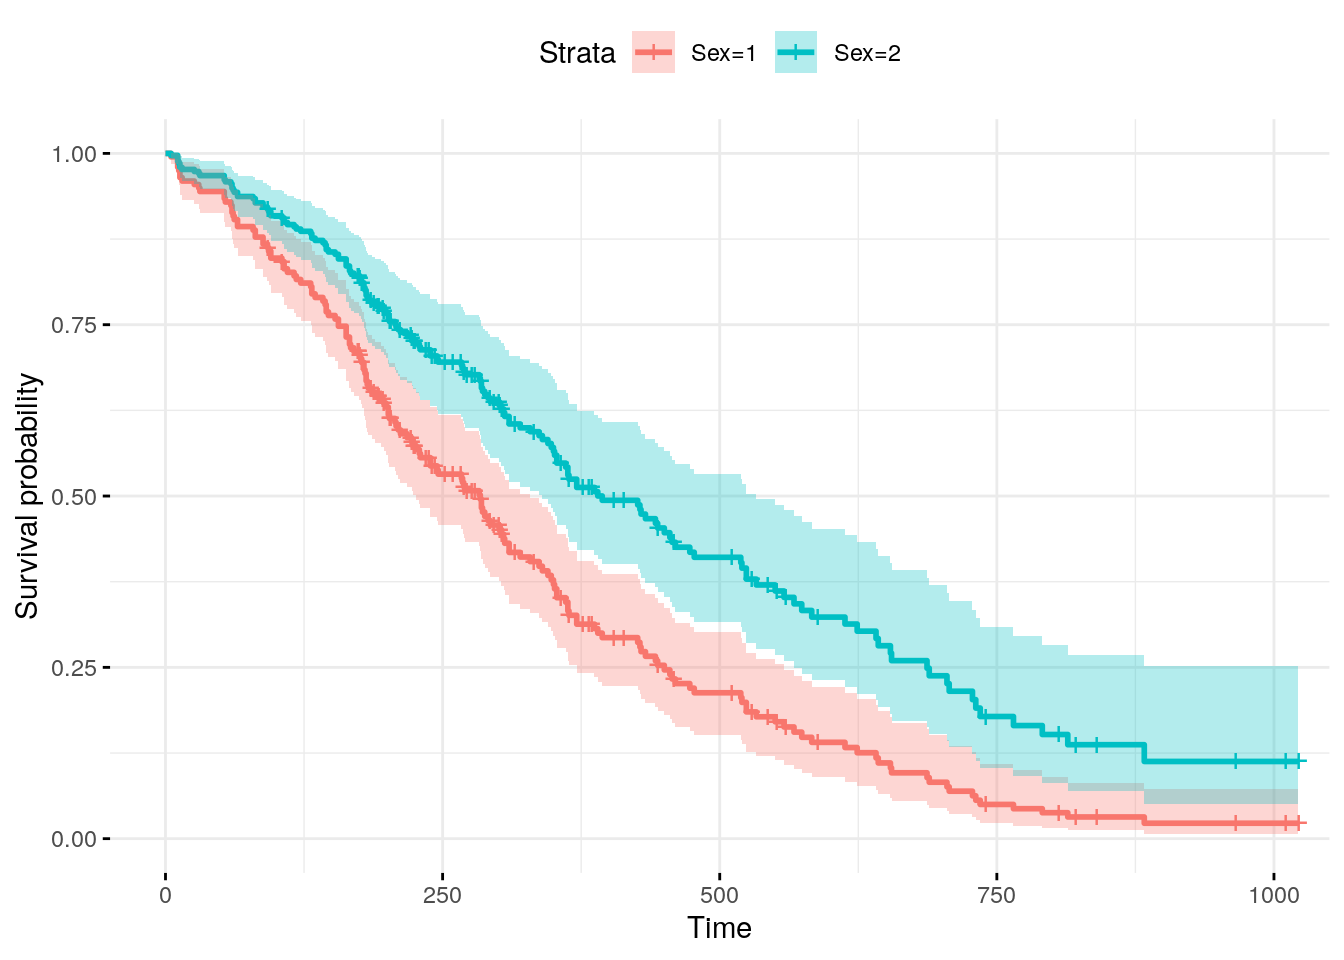
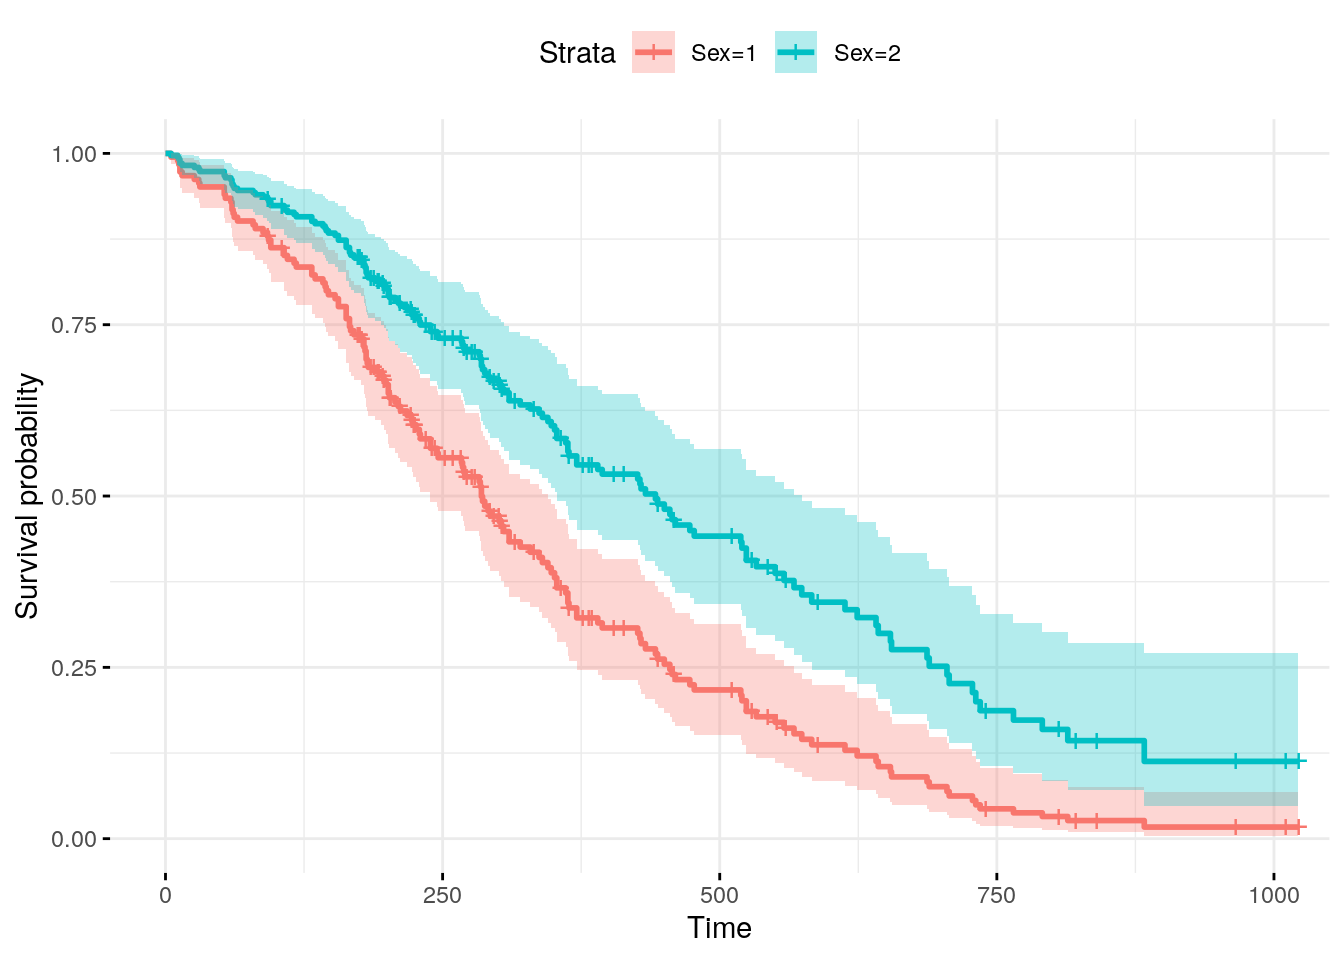
Build site.

diff --git a/docs/survival.html b/docs/survival.html
@@ -520,15 +520,15 @@ project makes it easier to run your code on other machines.</p>
 <div class="panel panel-default">
 <div class="panel-heading">
 <p class="panel-title">
-<a data-toggle="collapse" data-parent="#workflowr-checks" href="#strongRepositoryversionstrongahrefhttpsgithubcomdavetangmusetree37e1a562e56fa058a90c2ce91cd9383ca425dfb6targetblank37e1a56a">
+<a data-toggle="collapse" data-parent="#workflowr-checks" href="#strongRepositoryversionstrongahrefhttpsgithubcomdavetangmusetreeb4509a9d4759595b31410c63598282ad1ac59667targetblankb4509a9a">
 <span class="glyphicon glyphicon-ok text-success"
 aria-hidden="true"></span> <strong>Repository version:</strong>
-<a href="https://github.com/davetang/muse/tree/37e1a562e56fa058a90c2ce91cd9383ca425dfb6" target="_blank">37e1a56</a>
+<a href="https://github.com/davetang/muse/tree/b4509a9d4759595b31410c63598282ad1ac59667" target="_blank">b4509a9</a>
 </a>
 </p>
 </div>
 <div
[2 lines of base64/hex data omitted]
 class="panel-collapse collapse">
 <div class="panel-body">
 <p>
@@ -538,7 +538,7 @@ reproducibility.
 </p>
 <p>
 The results in this page were generated with repository version
-<a href="https://github.com/davetang/muse/tree/37e1a562e56fa058a90c2ce91cd9383ca425dfb6" target="_blank">37e1a56</a>.
+<a href="https://github.com/davetang/muse/tree/b4509a9d4759595b31410c63598282ad1ac59667" target="_blank">b4509a9</a>.
 See the <em>Past versions</em> tab to see a history of the changes made
 to the R Markdown and HTML files.
 </p>
@@ -555,6 +555,7 @@ were generated:
 Ignored files:
     Ignored:    .Rhistory
     Ignored:    .Rproj.user/
+    Ignored:    analysis/figure/
     Ignored:    r_packages_4.3.2/
 
 Untracked files:
@@ -618,6 +619,40 @@ Message
 </tr>
 </thead>
 <tbody>
+<tr>
+<td>
+Rmd
+</td>
+<td>
+<a href="https://github.com/davetang/muse/blob/b4509a9d4759595b31410c63598282ad1ac59667/analysis/survival.Rmd" target="_blank">b4509a9</a>
+</td>
+<td>
+Dave Tang
+</td>
+<td>
+2023-11-09
+</td>
+<td>
+Include additional covariates
+</td>
+</tr>
+<tr>
+<td>
+html
+</td>
+<td>
+<a href="https://rawcdn.githack.com/davetang/muse/797564fcf92f753e704d97c71c38bed15b07a0ed/docs/survival.html" target="_blank">797564f</a>
+</td>
+<td>
+Dave Tang
+</td>
+<td>
+2023-11-09
+</td>
+<td>
+Build site.
+</td>
+</tr>
 <tr>
 <td>
 Rmd
@@ -1405,12 +1440,12 @@ Score (logrank) test = 10.33  on 1 df,   p=0.001</code></pre>
 <ol style="list-style-type: decimal">
 <li><p><strong>Statistical significance</strong>. The column marked
 <code>z</code> gives the Wald statistic value. It corresponds to the
-ratio of each regression coefficient to its standard error (<span
-class="math inline">\(z = coef/se(coef)\)</span>). The Wald statistic
-evaluates, whether the beta (<span class="math inline">\(\beta\)</span>)
-coefficient of a given variable is statistically significantly different
-from 0. From the output above, we can conclude that the variable sex
-have highly statistically significant coefficients.</p></li>
+ratio of each regression coefficient to its standard error (z =
+coef/se(coef)). The Wald statistic evaluates, whether the beta (<span
+class="math inline">\(\beta\)</span>) coefficient of a given variable is
+statistically significantly different from 0. From the output above, we
+can conclude that the variable sex have highly statistically significant
+coefficients.</p></li>
 <li><p><strong>The regression coefficients</strong>. The second feature
 to note in the Cox model results is the the sign of the regression
 coefficients (<code>coef</code>). A positive sign means that the hazard
@@ -1440,7 +1475,7 @@ test has better behavior for small sample sizes, so it is generally
 preferred.</p></li>
 </ol>
 <p>Perform the univariate Cox analysis on other covariates.</p>
-<pre class="r"><code>covariates &lt;- c(&quot;age&quot;, &quot;sex&quot;,  &quot;ph.karno&quot;, &quot;ph.ecog&quot;, &quot;wt.loss&quot;)
+<pre class="r"><code>covariates &lt;- c(&quot;age&quot;, &quot;sex&quot;,  &quot;ph.karno&quot;, &quot;pat.karno&quot;, &quot;ph.ecog&quot;, &quot;wt.loss&quot;)
 univ_formulas &lt;- sapply(
   covariates,
   function(x) as.formula(paste(&#39;Surv(time, status)~&#39;, x))
@@ -1471,52 +1506,62 @@ univ_results &lt;- lapply(
 )
 res &lt;- t(as.data.frame(univ_results, check.names = FALSE))
 as.data.frame(res)</code></pre>
-<pre><code>           beta HR (95% CI for HR) wald.test p.value
-age       0.019            1 (1-1)       4.1   0.042
-sex       -0.53   0.59 (0.42-0.82)        10  0.0015
-ph.karno -0.016      0.98 (0.97-1)       7.9   0.005
-ph.ecog    0.48        1.6 (1.3-2)        18 2.7e-05
-wt.loss  0.0013         1 (0.99-1)      0.05    0.83</code></pre>
-<p>The variables <code>age</code>, <code>sex</code>, and
-<code>ph.ecog</code> have highly statistically significant coefficients.
-<code>age</code> and <code>ph.ecog</code> have positive beta
-coefficients, while sex has a negative coefficient. Thus, older age and
-higher <code>ph.ecog</code> are associated with poorer survival, whereas
-being female (sex=2) is associated with better survival.</p>
+<pre><code>            beta HR (95% CI for HR) wald.test p.value
+age        0.019            1 (1-1)       4.1   0.042
+sex        -0.53   0.59 (0.42-0.82)        10  0.0015
+ph.karno  -0.016      0.98 (0.97-1)       7.9   0.005
+pat.karno  -0.02   0.98 (0.97-0.99)        13 0.00028
+ph.ecog     0.48        1.6 (1.3-2)        18 2.7e-05
+wt.loss   0.0013         1 (0.99-1)      0.05    0.83</code></pre>
+<p>The variables <code>age</code>, <code>sex</code>,
+<code>ph.karno</code>, <code>pat.karno</code>, and <code>ph.ecog</code>
+have statistically significant coefficients. <code>age</code> and
+<code>ph.ecog</code> have positive beta coefficients, while sex has a
+negative coefficient. Thus, older age and higher <code>ph.ecog</code>
+are associated with poorer survival, whereas being female (sex=2) is
+associated with better survival.</p>
 <p>To perform a multivariate Cox regression analysis, include the
 additional covariates in the formula.</p>
-<pre class="r"><code>res_cox &lt;- coxph(Surv(time, status) ~ age + sex + ph.ecog, data =  lung)
+<pre class="r"><code>res_cox &lt;- coxph(Surv(time, status) ~ age + sex + ph.karno + pat.karno + ph.ecog + wt.loss, data =  lung)
 summary(res_cox)</code></pre>
 <pre><code>Call:
-coxph(formula = Surv(time, status) ~ age + sex + ph.ecog, data = lung)
+coxph(formula = Surv(time, status) ~ age + sex + ph.karno + pat.karno + 
+    ph.ecog + wt.loss, data = lung)
 
-  n= 227, number of events= 164 
-   (1 observation deleted due to missingness)
+  n= 210, number of events= 148 
+   (18 observations deleted due to missingness)
 
-             coef exp(coef)  se(coef)      z Pr(&gt;|z|)    
-age      0.011067  1.011128  0.009267  1.194 0.232416    
-sex     -0.552612  0.575445  0.167739 -3.294 0.000986 ***
-ph.ecog  0.463728  1.589991  0.113577  4.083 4.45e-05 ***
+               coef exp(coef)  se(coef)      z Pr(&gt;|z|)    
+age        0.013058  1.013144  0.009866  1.324 0.185639    
+sex       -0.625167  0.535172  0.178703 -3.498 0.000468 ***
+ph.karno   0.020116  1.020320  0.010178  1.976 0.048111 *  
+pat.karno -0.014743  0.985365  0.007300 -2.019 0.043440 *  
+ph.ecog    0.675227  1.964479  0.198735  3.398 0.000680 ***
+wt.loss   -0.013243  0.986844  0.007009 -1.889 0.058836 .  
 ---
 Signif. codes:  0 &#39;***&#39; 0.001 &#39;**&#39; 0.01 &#39;*&#39; 0.05 &#39;.&#39; 0.1 &#39; &#39; 1
 
-        exp(coef) exp(-coef) lower .95 upper .95
-age        1.0111     0.9890    0.9929    1.0297
-sex        0.5754     1.7378    0.4142    0.7994
-ph.ecog    1.5900     0.6289    1.2727    1.9864
+          exp(coef) exp(-coef) lower .95 upper .95
+age          1.0131     0.9870    0.9937    1.0329
+sex          0.5352     1.8686    0.3770    0.7596
+ph.karno     1.0203     0.9801    1.0002    1.0409
+pat.karno    0.9854     1.0149    0.9714    0.9996
+ph.ecog      1.9645     0.5090    1.3307    2.9001
+wt.loss      0.9868     1.0133    0.9734    1.0005
 
-Concordance= 0.637  (se = 0.025 )
-Likelihood ratio test= 30.5  on 3 df,   p=1e-06
-Wald test            = 29.93  on 3 df,   p=1e-06
-Score (logrank) test = 30.5  on 3 df,   p=1e-06</code></pre>
+Concordance= 0.656  (se = 0.025 )
+Likelihood ratio test= 37.2  on 6 df,   p=2e-06
+Wald test            = 36.49  on 6 df,   p=2e-06
+Score (logrank) test = 37.59  on 6 df,   p=1e-06</code></pre>
 <p>The p-value for all three overall tests (likelihood, Wald, and score)
 are significant, indicating that the model is significant. These tests
 evaluate the omnibus null hypothesis that all of the betas are 0. In the
 above example, the test statistics are in close agreement, and the
 omnibus null hypothesis is soundly rejected.</p>
-<p>In the multivariate Cox analysis, the covariates <code>sex</code> and
-<code>ph.ecog</code> remain significant (p &lt; 0.05) and the covariate
-<code>age</code> is not significant.</p>
+<p>In the multivariate Cox analysis, the covariates <code>sex</code>,
+<code>ph.karno</code>, <code>pat.karno</code>, and <code>ph.ecog</code>
+remain significant (p &lt; 0.05) and the covariate <code>age</code> is
+no longer significant.</p>
 <p>The p-value for <code>sex</code> is 0.000986, with a hazard ratio HR
 = exp(coef) = 0.58, indicating a strong relationship between the
 patients’ sex and decreased risk of death. The hazard ratios of
@@ -1552,6 +1597,43 @@ covariates.</p>
 <pre><code>Warning: Now, to change color palette, use the argument palette= &#39;#2E9FDF&#39;
 instead of color = &#39;#2E9FDF&#39;</code></pre>
 <p><img src="figure/survival.Rmd/plot_baseline_survival-1.png" width="480" style="display: block; margin: auto;" /></p>
+<p>
+<button type="button" class="btn btn-default btn-xs btn-workflowr btn-workflowr-fig" data-toggle="collapse" data-target="#fig-plot_baseline_survival-1">
+Past versions of plot_baseline_survival-1.png
+</button>
+</p>
+<div id="fig-plot_baseline_survival-1" class="collapse">
+<div class="table-responsive">
+<table class="table table-condensed table-hover">
+<thead>
+<tr>
+<th>
+Version
+</th>
+<th>
+Author
+</th>
+<th>
+Date
+</th>
+</tr>
+</thead>
+<tbody>
+<tr>
+<td>
+<a href="https://github.com/davetang/muse/blob/797564fcf92f753e704d97c71c38bed15b07a0ed/docs/figure/survival.Rmd/plot_baseline_survival-1.png" target="_blank">797564f</a>
+</td>
+<td>
+Dave Tang
+</td>
+<td>
+2023-11-09
+</td>
+</tr>
+</tbody>
+</table>
+</div>
+</div>
 <p>Consider that, we want to assess the impact of the sex on the
 estimated survival probability. In this case, we construct a new data
 frame with two rows, one for each value of sex; the other covariates are
@@ -1564,13 +1646,16 @@ This data frame is passed to survfit() via the newdata argument.</p>
   data.frame(
     sex = c(1, 2), 
     age = rep(mean(age, na.rm = TRUE), 2),
-    ph.ecog = c(1, 1)
+    ph.ecog = c(1, 1),
+    ph.karno = rep(mean(ph.karno, na.rm=TRUE), 2),
+    pat.karno = rep(mean(pat.karno, na.rm=TRUE), 2),
+    wt.loss = rep(mean(wt.loss, na.rm=TRUE), 2)
   )
 )
 sex_df</code></pre>
-<pre><code>  sex      age ph.ecog
-1   1 62.44737       1
-2   2 62.44737       1</code></pre>
+<pre><code>  sex      age ph.ecog ph.karno pat.karno  wt.loss
+1   1 62.44737       1 81.93833  79.95556 9.831776
+2   2 62.44737       1 81.93833  79.95556 9.831776</code></pre>
 <pre class="r"><code>fit &lt;- survfit(res_cox, newdata = sex_df)
 ggsurvplot(
   fit,
@@ -1587,6 +1672,43 @@ This warning is displayed once every 8 hours.
 Call `lifecycle::last_lifecycle_warnings()` to see where this warning was
 generated.</code></pre>
 <p><img src="figure/survival.Rmd/fit_new_data-1.png" width="672" style="display: block; margin: auto;" /></p>
+<p>
+<button type="button" class="btn btn-default btn-xs btn-workflowr btn-workflowr-fig" data-toggle="collapse" data-target="#fig-fit_new_data-1">
+Past versions of fit_new_data-1.png
+</button>
+</p>
+<div id="fig-fit_new_data-1" class="collapse">
+<div class="table-responsive">
+<table class="table table-condensed table-hover">
+<thead>
+<tr>
+<th>
+Version
+</th>
+<th>
+Author
+</th>
+<th>
+Date
+</th>
+</tr>
+</thead>
+<tbody>
+<tr>
+<td>
+<a href="https://github.com/davetang/muse/blob/797564fcf92f753e704d97c71c38bed15b07a0ed/docs/figure/survival.Rmd/fit_new_data-1.png" target="_blank">797564f</a>
+</td>
+<td>
+Dave Tang
+</td>
+<td>
+2023-11-09
+</td>
+</tr>
+</tbody>
+</table>
+</div>
+</div>
 </div>
 <div id="references-1" class="section level3">
 <h3>References</h3>
